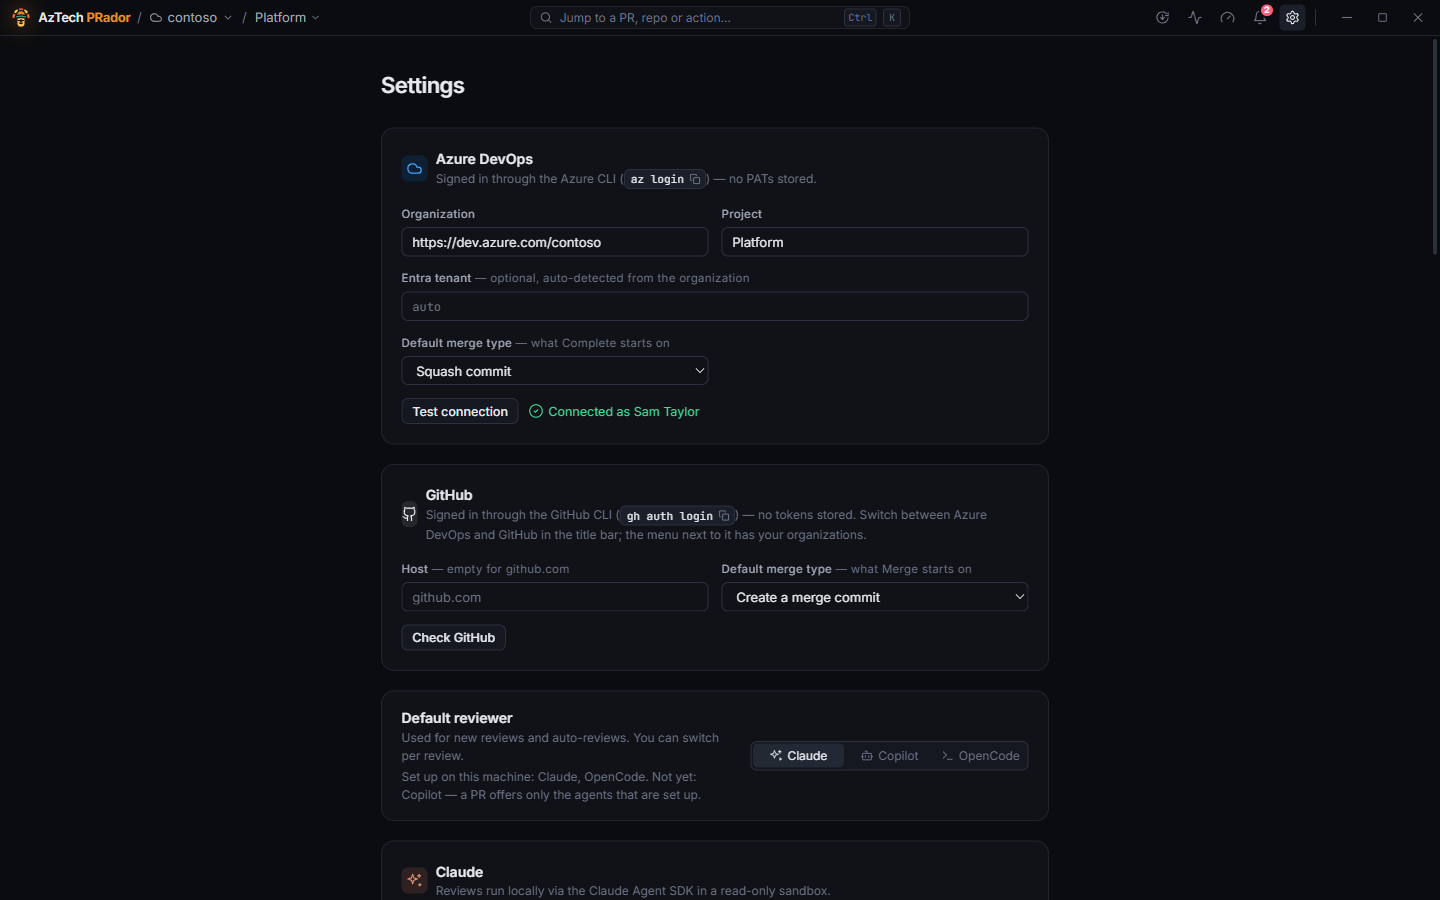
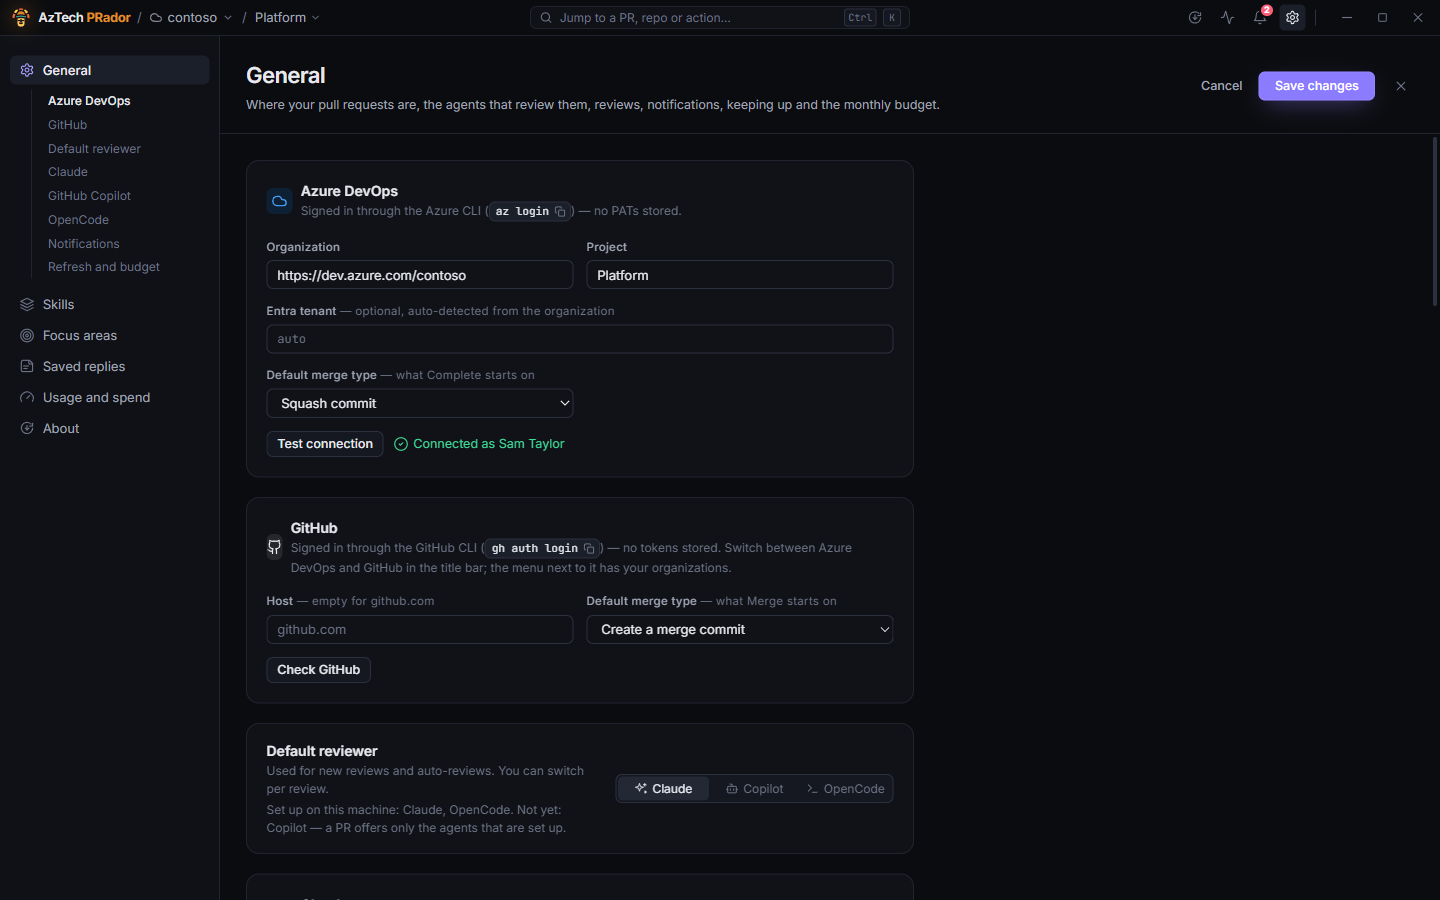
User guide for 0.10.45

diff --git a/docs/how-to/skills.md b/docs/how-to/skills.md
@@ -2,7 +2,7 @@
 
 A **skill** is a folder with a `SKILL.md`: a name and a one-line description at the top, then instructions in Markdown. It's the format Claude Code, GitHub Copilot and OpenCode share, so a skill you have for any of them works here, and so does one you write yourself: a checklist for your framework, the way your team handles migrations, what to look for in a controller.
 
-The **Skills** page (the layers button in the title bar, <kbd>Ctrl</kbd>+<kbd>K</kbd> → **Skills…**, or Settings → **Skills…**) is the app's library of them: a **Library** tab for the skills and how each is used, a [**Security** tab](#the-security-tab) for what the check found and what needs you. <kbd>Esc</kbd> closes it. The list's edge drags to widen it (double-click puts the default back). Reviews by Claude, Copilot and OpenCode alike get the ones that apply: in their prompt, after the repository's guidelines and your instructions, or, for the ones you set to **when the agent asks**, as a line each and a tool the agent reads them with when the change calls for one. [Fix sessions](#in-fix-mode) get them too, with a setting of their own per skill, since a how-to for building is worth more to an agent editing code than to one judging a diff. The app [reads each skill as it comes in](#what-a-skill-reads-as) to tell which is which, and [checks it](#the-security-check) for what a skill has no business telling an agent.
+**Skills**, a section of Settings (the gear in the title bar, then **Skills** in its side nav; <kbd>Ctrl</kbd>+<kbd>K</kbd> → **Skills…**; or the pencil by the skill chips), is the app's library of them: a **Library** tab for the skills and how each is used, a [**Security** tab](#the-security-tab) for what the check found and what needs you. <kbd>Esc</kbd> closes Settings. The list's edge drags to widen it (double-click puts the default back). Reviews by Claude, Copilot and OpenCode alike get the ones that apply: in their prompt, after the repository's guidelines and your instructions, or, for the ones you set to **when the agent asks**, as a line each and a tool the agent reads them with when the change calls for one. [Fix sessions](#in-fix-mode) get them too, with a setting of their own per skill, since a how-to for building is worth more to an agent editing code than to one judging a diff. The app [reads each skill as it comes in](#what-a-skill-reads-as) to tell which is which, and [checks it](#the-security-check) for what a skill has no business telling an agent.
 
 ## Add a skill
 
@@ -44,7 +44,7 @@ The checks catch what such text usually looks like, and a skill can be written t
 
 ## The Security tab
 
-The title bar's **Skills** button counts the skills that need you (held back for warnings, or refused), and the page opens on its **Security** tab while any does. The tab starts with where the library stands: how many skills had nothing found, have warnings you accepted, are held back, refused, or not checked (a copy that couldn't be read), and a line on how the check is made. **Check 5 with Claude** (or Copilot, or OpenCode) has the agent read every skill it hasn't checked yet; once it has them all, **Check all again**.
+The gear in the title bar, and **Skills** in Settings' side nav, count the skills that need you (held back for warnings, or refused), and Skills opens on its **Security** tab while any does. The tab starts with where the library stands: how many skills had nothing found, have warnings you accepted, are held back, refused, or not checked (a copy that couldn't be read), and a line on how the check is made. **Check 5 with Claude** (or Copilot, or OpenCode) has the agent read every skill it hasn't checked yet; once it has them all, **Check all again**.
 
 **To act on** lists the skills that need you, first. One held back shows its warnings with the line each is about; **Where** opens the lines around it in the skill's copy, the finding's own marked (a copy changed since the check says so). **Accept the warning** lets the skill through from there, **Open in the library** shows it in the Library tab with its text, **Remove** takes it out. A refused skill shows what refuses it, with **Remove**; one whose copy couldn't be read offers **Read it again**. With several held back, **Accept the warnings of all…** does them together, after a confirmation. When nothing needs you, the tab says so.
 

diff --git a/docs/reviews.md b/docs/reviews.md
@@ -125,7 +125,7 @@ The latest review of each repository is kept on this computer, and shows when yo
 
 ## Several reviews at once
 
-The pulse icon in the title bar (before the gauge and the bell) shows how many reviews are running. It opens the **reviews panel**: each review running now, with what it's doing and for how long, and a **Stop**, and the ones that finished, with their findings or why they failed. Click one to open its PR on that review.
+The pulse icon in the title bar (before the bell) shows how many reviews are running. It opens the **reviews panel**: each review running now, with what it's doing and for how long, and a **Stop**, and the ones that finished, with their findings or why they failed. Click one to open its PR on that review.
 
 A review you started that finishes (or fails) while its PR isn't on screen is announced in the bell, and as a Windows notification.
 
@@ -135,7 +135,7 @@ Each review shows what it cost: dollars for Claude and OpenCode, AI Credits for 
 
 ### Usage and spend
 
-The gauge in the title bar (or <kbd>Ctrl</kbd>+<kbd>K</kbd> → "Usage and spend", or the link under **Monthly AI budget** in Settings) opens **Usage and spend**. It adds up the spend: today, the last 7 days, this month, or everything kept on this computer. It shows what was spent, how many reviews (and how many of them automatic) and questions, by agent and by repository: dollars, and Copilot's AI Credits in a column of their own. It also shows the follow-up questions by how long after the session's last call they came: within 5 minutes, a question re-reads the session cheaply from the provider's cache; later, it pays to read all of it again.
+**Usage and spend** is a section of Settings (the gear in the title bar, then **Usage and spend** in its side nav; or <kbd>Ctrl</kbd>+<kbd>K</kbd> → "Usage and spend"; or the link under **Monthly AI budget**), with two tabs. **Limits** shows how much of each allowance is used, where its maker says. **Spend** adds up the spend: today, the last 7 days, this month, or everything kept on this computer. It shows what was spent, how many reviews (and how many of them automatic) and questions, by agent and by repository: dollars, and Copilot's AI Credits in a column of their own. It also shows the follow-up questions by how long after the session's last call they came: within 5 minutes, a question re-reads the session cheaply from the provider's cache; later, it pays to read all of it again.
 
 Set a **Monthly AI budget** near the bottom of Settings to be told, in the bell, when the month's spend passes it. Copilot's AI Credits aren't dollars, so they don't count towards it.
 
@@ -144,7 +144,9 @@ Set a **Monthly AI budget** near the bottom of Settings to be told, in the bell,
 - **Claude**, with an API key, has no plan limits: you pay as you go, and what it spent is below.
 - **Copilot**: this month's AI Credits, or premium requests.
 - **GitHub**: this hour's budget, for each of its two APIs. It's your account's, so other tools signed in to GitHub as you count too.
-- **Azure DevOps** says how much is used only once you're close to its limit, so most of the time there's nothing to show.
+- **Azure DevOps**: the last 5 minutes. It says how much is used only once you're close to its limit, so most of the time the bar reads 0%; when it asks the app to wait, 100% until then.
+
+A provider you set up but aren't showing in the list (the other one is selected, not both) is listed too, with a note saying so; its figures appear as the app uses it.
 
 Reading Copilot's starts it for a moment, without a prompt: it costs nothing. OpenCode's providers don't report limits. The bell warns when one passes your level: see [Notifications](notifications.md).
 

diff --git a/docs/updates.md b/docs/updates.md
@@ -2,20 +2,20 @@
 
 The app checks for a new version when it starts and every six hours. When there is one, it downloads it in the background, checks it's exactly the file that was released (its SHA-512 checksum), and says so. Then:
 
-- **Restart now** in the message (or **Restart to update** in the title bar, or at the bottom of Settings) installs it straight away, or
+- **Restart now** in the message (or **Restart to update** in the title bar, or in Settings → **About**) installs it straight away, or
 - it installs the next time you quit the app. Closing the window keeps the app in the tray, so quit from there: right-click the tray icon → **Quit AzTech PRador**.
 
 If a review is running, restarting asks first: the review is stopped, and you can run it again after the update.
 
-**Check for updates** is at the bottom of Settings, and in the command palette.
+**Check for updates** is in Settings → **About**, and in the command palette.
 
 ## What's new
 
-After an update, the app shows what's new in it. **Release notes** at the bottom of Settings (or <kbd>Ctrl</kbd>+<kbd>K</kbd> → "What's new") shows the notes of every version. They're also on the [releases page](https://github.com/mtomorowicz/AzTech-releases/releases).
+After an update, the app shows what's new in it. Settings → **About** (or <kbd>Ctrl</kbd>+<kbd>K</kbd> → "What's new") lists the **Release notes** of every version, the newest few first. They're also on the [releases page](https://github.com/mtomorowicz/AzTech-releases/releases).
 
 ## Copies that don't update
 
-The installed app updates itself. These don't, and the bottom of Settings says "Updates are off for this build":
+The installed app updates itself. These don't, and Settings → **About** says "Updates are off for this build":
 
 - the portable `.exe`: download the new one from the [releases page](https://github.com/mtomorowicz/AzTech-releases/releases), or install with the setup `.exe` instead;
 - test builds, whose version has a label after it (`0.9.54-pr.12`, say).

diff --git a/docs/comments.md b/docs/comments.md
@@ -48,7 +48,7 @@ Every comment and reply box takes Markdown:
 
 - **Preview**, above the box, shows it as it will look; **Write** goes back.
 - Type **@** and the start of a name to mention someone. The PR's people (its author, reviewers and the people in its threads) and those you've mentioned before come first; from the second letter, anyone else in your Azure DevOps organization who matches is added (on GitHub, the people who can be assigned to the repository). Pick one with <kbd>Tab</kbd> (or <kbd>↑</kbd> <kbd>↓</kbd> first), or click it: the box shows **@** and their name (on GitHub, their user name), and says underneath who you mention. Posted, it's a real mention: they're notified. Typing someone's whole name after **@** works too, for the PR's people and those you've mentioned before.
-- **Saved replies** puts one of your saved replies in the box. To save one, write it, then **Saved replies** → **Save this as a reply**. **Manage…** (or <kbd>Ctrl</kbd>+<kbd>K</kbd> → "Saved replies…") renames, reorders and deletes them. You can keep 50.
+- **Saved replies** puts one of your saved replies in the box. To save one, write it, then **Saved replies** → **Save this as a reply**. **Manage…** (Settings → **Saved replies**, or <kbd>Ctrl</kbd>+<kbd>K</kbd> → "Saved replies…") renames, reorders and deletes them. You can keep 50.
 
 <kbd>Ctrl</kbd>+<kbd>Enter</kbd> posts (after the confirmation, as always) and <kbd>Esc</kbd> cancels.
 

diff --git a/docs/getting-started.md b/docs/getting-started.md
@@ -37,7 +37,7 @@ With both set up, the title bar switches between Azure DevOps and GitHub, and yo
 
 ## Set up an agent
 
-Open **Settings** (the gear in the title bar). Each agent has its own section.
+Open **Settings** (the gear in the title bar). Its side nav has **General**, **Skills**, **Focus areas**, **Saved replies**, **Usage and spend** and **About** (this build, the release notes, the guides, updates); under **General** it lists General's parts, and a click scrolls to one. On **General**, each agent has its own section, and **Save changes** and **Cancel** are in its header.
 
 - **Claude**: choose **API key**, paste your Anthropic key and click **Save key**. It's encrypted on your machine.
 - **GitHub Copilot**: choose **GitHub sign-in** (your Copilot CLI or GitHub CLI login, enterprise accounts included) or **GitHub token** (paste a fine-grained token with the Copilot Requests permission and click **Save token**), then **Check Copilot**. It lists the models your plan offers.

diff --git a/docs/how-to/focus-areas.md b/docs/how-to/focus-areas.md
@@ -10,7 +10,7 @@ On a review's start screen, above **Start review** (or in the options of its **U
 
 **Focus** picks areas such as security, performance, tests or style. Pick any number. **Save as default** makes them your **preferred focus**, used for new reviews and automatic ones. Settings has it too.
 
-The pencil next to the focus chips (or <kbd>Ctrl</kbd>+<kbd>K</kbd> → "Review focus areas…") shows what each area tells the agent. You can:
+The pencil next to the focus chips (or Settings → **Focus areas**, or <kbd>Ctrl</kbd>+<kbd>K</kbd> → "Review focus areas…") opens **Focus areas** in Settings, which shows what each area tells the agent. Leaving it with unsaved changes asks first. You can:
 
 - edit the built-in ones: their name, short description and instructions;
 - hide the ones you don't use, or reset them;
